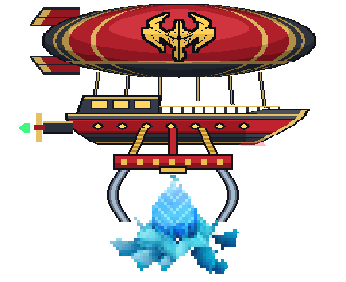
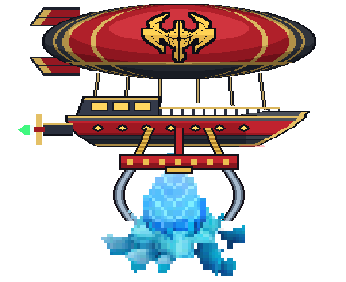
feat(cinematic): [AGY-016] enlarge Anivia Egg on 3x3 grid, remove side crystal clusters, and clean ice base

diff --git a/Data/Scripts/012_Overworld/009_Overworld_Cinematics_LoL.rb b/Data/Scripts/012_Overworld/009_Overworld_Cinematics_LoL.rb
@@ -935,9 +935,9 @@ def pbCinematiqueDirigeableNoxus(explicit_egg_event_id = nil, utiliser_ma_carte 
     altar_cy = egg_event.screen_y - 16
   end
 
-  # 1) Affichage du GRAND Œuf d'Anivia animé (!Oeuf_Anivia.png : 144x120 par frame)
-  #    Bas du sprite à altar_cy + 60 = 286 (juste au-dessus de la boîte de texte à Y = 288 !)
-  egg_actor = NoxusCutsceneActor.new(vp, "!Oeuf_Anivia", altar_cx, altar_cy + 60, 2, 150)
+  # 1) Affichage du GRAND Œuf d'Anivia animé (!Oeuf_Anivia.png : 168x138 par frame)
+  #    Bas du sprite à altar_cy + 62 = 288 (aligné au pixel près sur y = 150..288 au-dessus de la boîte de texte !)
+  egg_actor = NoxusCutsceneActor.new(vp, "!Oeuf_Anivia", altar_cx, altar_cy + 62, 2, 150)
   egg_event.transparent = true if egg_event
 
   # 2) Arrivée par le bas du plateau (de l'autre côté, en montant vers l'Œuf : dir = 8, 150 frames) !
@@ -948,9 +948,9 @@ def pbCinematiqueDirigeableNoxus(explicit_egg_event_id = nil, utiliser_ma_carte 
   walk_in_frames = 150
   walk_in_frames.times do |i|
     t = (i + 1).to_f / walk_in_frames
-    valerius.y = 382 + (244 - 382) * t
-    soldat_g.y = 398 + (268 - 398) * t
-    soldat_d.y = 392 + (256 - 392) * t
+    valerius.y = 382 + (248 - 382) * t
+    soldat_g.y = 398 + (270 - 398) * t
+    soldat_d.y = 392 + (260 - 392) * t
     valerius.step_frame
     soldat_g.step_frame
     soldat_d.step_frame

diff --git a/CHANGELOG.md b/CHANGELOG.md
@@ -16,6 +16,22 @@ En cas de bug plus tard, ce journal permet d'identifier immédiatement **quel fi
 
 ## 📅 Historique des Ajouts & Modifications
 
+### `[AGY-016]` — 2026-10-12 — Agrandissement de l'Œuf d'Anivia (+36 % en blocs 3×3), suppression des cristaux latéraux & nettoyage du socle de glace
+- **Auteur** : `Antigravity`
+- **Catégorie** : Graphismes (`Pictures` / `Characters`) & Script Cinématique (`009_Overworld_Cinematics_LoL.rb`)
+- **Fichiers modifiés** :
+  - `Graphics/Pictures/Fond_Sanctuaire_Glace.png` (Suppression des 2 petits amas de cristaux turquoise sur les côtés, nettoyage des pixels blancs isolés/croix sombre au centre de la glace, et agrandissement du socle de Glace Pure sous l'Œuf `168×138`)
+  - `Graphics/Pictures/Statue_Aigle_Glace_Anivia.png` (Nettoyage complet du socle de glace `3×3` sans point blanc ni découpe en vague)
+  - `Graphics/Pictures/Oeuf_Anivia_Seul.png` & `Graphics/Characters/!Oeuf_Anivia.png` (Agrandissement de l'Œuf d'Anivia à `168×138` par frame, soit `672×552` pour la planche 4×4, avec un dôme d'Œuf +36 % plus grand sur la grille `3×3`)
+  - `Graphics/Pictures/Dirigeable_Grappin_Oeuf.png`, `Graphics/Pictures/Dirigeable_Noxus_2_Capture.png`, `Graphics/Pictures/Dirigeable_Noxus_3_Explosion.png`, `Graphics/Pictures/Cinematic_Dirigeable_Noxus_3Frames.png` (Intégration de l'Œuf agrandi et nettoyé dans les pinces du treuil du Dirigeable)
+  - `Data/Scripts/012_Overworld/009_Overworld_Cinematics_LoL.rb` (Alignement au pixel près de `!Oeuf_Anivia` agrandi `168×138` sur `y = 150..288`)
+- **Comment tester en jeu** :
+  - Lancer le jeu (**New Game**) : l'Œuf d'Anivia est nettement plus grand et imposant devant la Statue en Glace d'Anivia (et dans les pinces du treuil lors de la capture), les petits cristaux sur les côtés ont disparu et le socle de glace est parfaitement propre.
+- **Comment désactiver en cas de bug** :
+  - `git revert HEAD` pour revenir à l'état précédent.
+
+---
+
 ### `[AGY-015]` — 2026-10-12 — Ajout de la Statue en Glace Pure d'Anivia au centre derrière l'Œuf (grille 3×3 identique à l'Œuf) & Glace au sol lisse
 - **Auteur** : `Antigravity`
 - **Catégorie** : Graphismes (`Pictures`)
